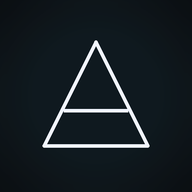
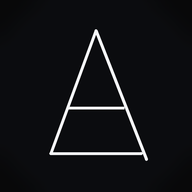
Новая иконка-логотип (v4), кэш assi-v7

Changed region(s): [[0.2188, 0.1562, 0.7812, 0.8438]]

diff --git a/static/index.html b/static/index.html
@@ -142,7 +142,7 @@
       <path d="M4 7h16M4 12h16M4 17h10"/>
     </svg>
   </button>
-  <img class="ava" src="/icon-192.png?v=3" alt="">
+  <img class="ava" src="/icon-192.png?v=4" alt="">
   <div class="who">
     <div class="nm">Assi</div>
     <div class="st" id="stat">ждёт</div>
@@ -347,7 +347,7 @@ function render(messages) {
 function notify() {
   if (navigator.vibrate) navigator.vibrate(35);
   if (document.hidden && window.Notification && Notification.permission === 'granted') {
-    new Notification('Assi', { body: 'ответила', icon: '/icon-192.png?v=3' });
+    new Notification('Assi', { body: 'ответила', icon: '/icon-192.png?v=4' });
   }
 }
 

diff --git a/static/sw.js b/static/sw.js
@@ -1,5 +1,5 @@
-const CACHE = 'assi-v6';
-const SHELL = ['/', '/manifest.webmanifest', '/icon-192.png?v=3', '/icon-512.png?v=3', '/favicon.png'];
+const CACHE = 'assi-v7';
+const SHELL = ['/', '/manifest.webmanifest', '/icon-192.png?v=4', '/icon-512.png?v=4', '/favicon.png'];
 
 self.addEventListener('install', e => {
   e.waitUntil(caches.open(CACHE).then(c => c.addAll(SHELL)).then(() => self.skipWaiting()));

diff --git a/make_icons.py b/make_icons.py
@@ -1,4 +1,4 @@
-"""Иконки приложения Assi — геометрическая «A» тонкой линией.
+"""Иконки приложения Assi — тонкая геометрическая «A» с выходом правой ноги за основу.
 
 Только Pillow, без сети. Запуск: .venv\\Scripts\\python.exe make_icons.py
 """
@@ -6,50 +6,57 @@ from pathlib import Path
 
 from PIL import Image, ImageDraw, ImageFilter
 
-BG = (11, 13, 16)
-INK = (242, 246, 255)
-GLOW = (86, 214, 255)
+BG = (8, 8, 9)
+INK = (245, 246, 248)
+
 OUT = Path(__file__).parent / "static"
 
 
 def draw_mark(size: int, scale: float = 1.0) -> Image.Image:
-    """Тёмный фон, мягкое свечение и тонкая треугольная «A» по центру."""
+    """Чёрный фон и контурная «A»: треугольник, правая нога выходит за основу."""
     img = Image.new("RGB", (size, size), BG)
-    cx = cy = size / 2
+    cx = size / 2
 
-    # свечение
+    # лёгкое свечение внутри знака
     glow = Image.new("RGB", (size, size), BG)
     gd = ImageDraw.Draw(glow)
-    r = size * 0.30 * scale
-    for i in range(9, 0, -1):
-        k = i / 9
-        rr = r * (1 + k * 1.6)
-        col = tuple(int(BG[j] + (GLOW[j] - BG[j]) * (0.10 * (1 - k))) for j in range(3))
-        gd.ellipse([cx - rr, cy - rr, cx + rr, cy + rr], fill=col)
-    glow = glow.filter(ImageFilter.GaussianBlur(size * 0.06))
-    img = Image.blend(img, glow, 0.75)
+    r = size * 0.26 * scale
+    cy = size * 0.50
+    for i in range(10, 0, -1):
+        k = i / 10
+        rr = r * (1 + k * 1.2)
+        gd.ellipse([cx - rr, cy - rr, cx + rr, cy + rr], fill=(14, 16, 20))
+    glow = glow.filter(ImageFilter.GaussianBlur(size * 0.05))
+    img = Image.blend(img, glow, 0.6)
 
     d = ImageDraw.Draw(img)
-    w = max(2, int(size * 0.019 * scale))
+    w = max(2, int(size * 0.0155 * scale))
+    ink = INK if scale > 0.9 else (245, 246, 248)
 
-    top = cy - size * 0.28 * scale
-    bot = cy + size * 0.26 * scale
-    half = size * 0.27 * scale
+    s = size * scale
+    top = size * 0.5 - s * 0.34
+    bot = size * 0.5 + s * 0.30
+    half = s * 0.235          # половина ширины основы
+
     apex = (cx, top)
     left = (cx - half, bot)
     right = (cx + half, bot)
+    tail = (cx + half + s * 0.028, bot + s * 0.030)   # выход правой ноги за основу
 
-    for a, b in ((apex, left), (apex, right), (left, right)):
-        d.line([a, b], fill=INK, width=w, joint="curve")
+    # левая нога, основа, правая нога с хвостом
+    d.line([apex, left], fill=ink, width=w)
+    d.line([left, right], fill=ink, width=w)
+    d.line([apex, tail], fill=ink, width=w)
 
-    # перекладина «A» — на 0.66 высоты, ровно между боковыми линиями
-    y = top + (bot - top) * 0.66
-    w_at = half * ((y - top) / (bot - top))
-    d.line([(cx - w_at * 0.94, y), (cx + w_at * 0.94, y)], fill=INK, width=w)
+    # перекладина между ногами
+    y = top + (bot - top) * 0.63
+    k = (y - top) / (bot - top)
+    w_at = half * k
+    d.line([(cx - w_at, y), (cx + w_at, y)], fill=ink, width=w)
 
-    # круглые окончания штрихов
-    for p in (apex, left, right):
-        d.ellipse([p[0] - w / 2, p[1] - w / 2, p[0] + w / 2, p[1] + w / 2], fill=INK)
+    # круглые окончания
+    for p in (apex, left, right, tail):
+        d.ellipse([p[0] - w / 2, p[1] - w / 2, p[0] + w / 2, p[1] + w / 2], fill=ink)
     return img
 
 
@@ -61,7 +68,6 @@ def main() -> None:
     big.resize((180, 180), Image.LANCZOS).save(OUT / "apple-touch-icon.png")
     big.resize((64, 64), Image.LANCZOS).save(OUT / "favicon.png")
     big.resize((256, 256), Image.LANCZOS).save(OUT / "icon.png")
-    # maskable: знак меньше, чтобы не обрезался круглой маской
     draw_mark(1024, scale=0.72).resize((512, 512), Image.LANCZOS).save(OUT / "icon-maskable-512.png")
     print("готово:", ", ".join(sorted(p.name for p in OUT.glob("icon*.png"))))
 
